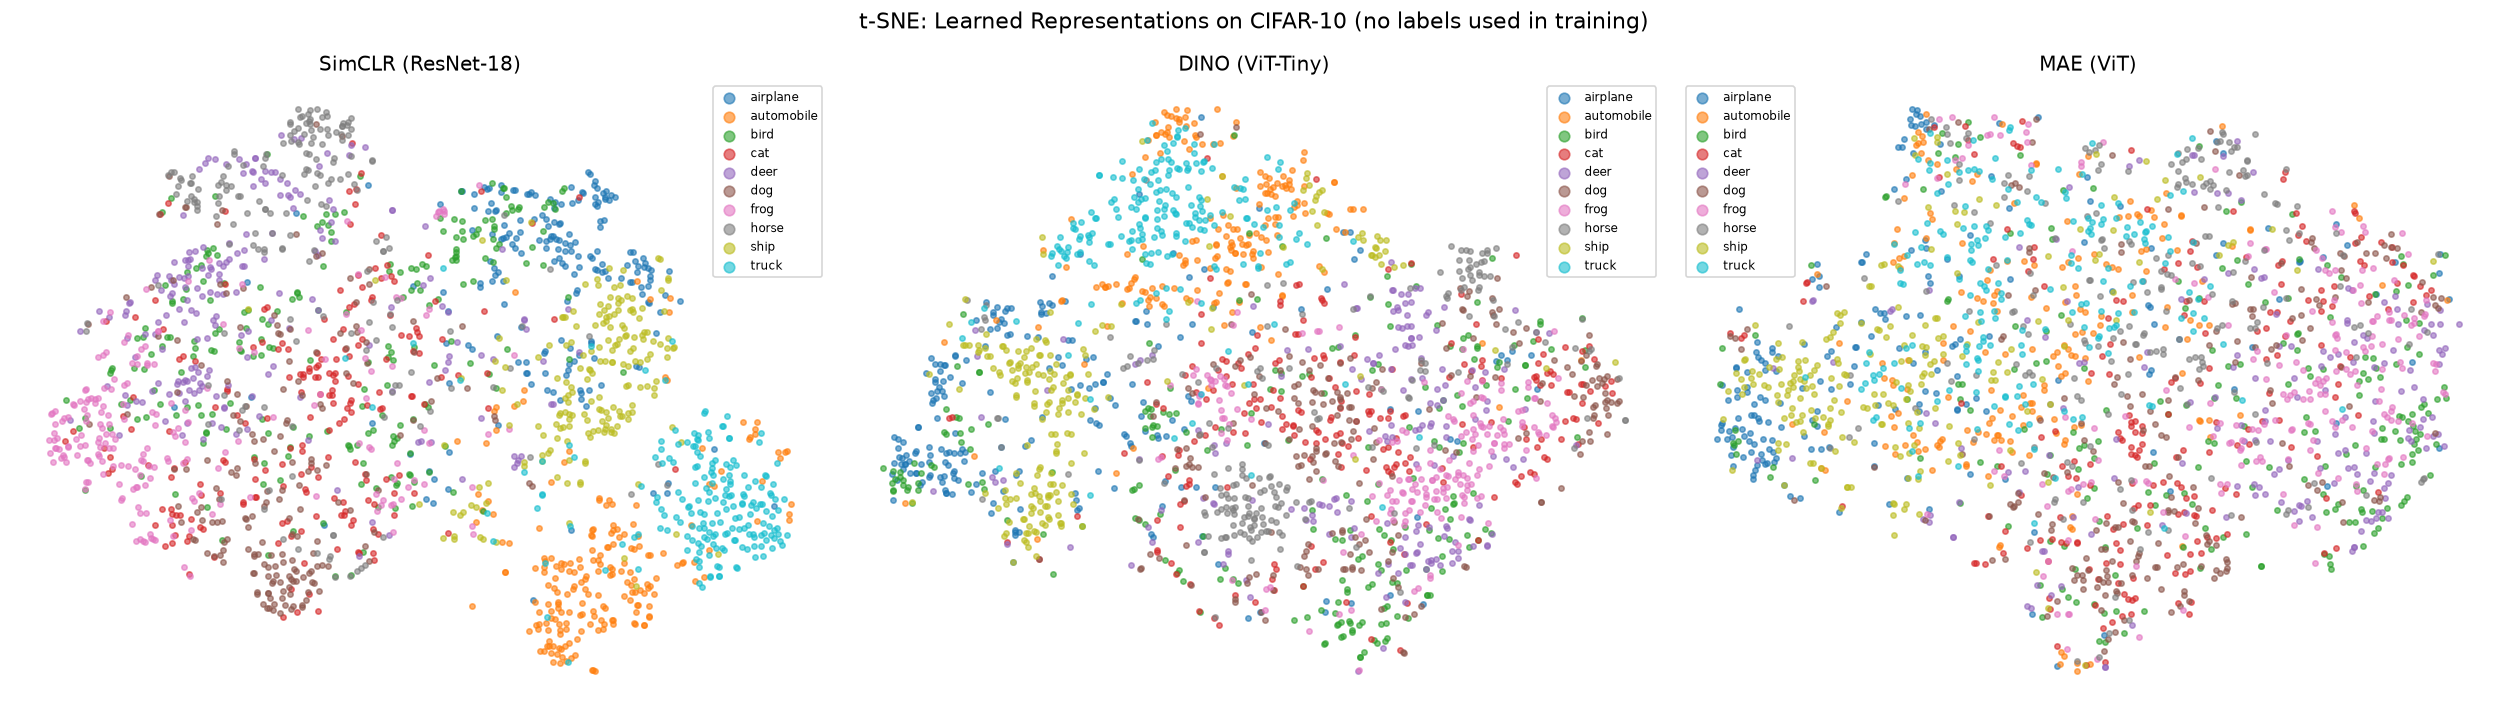
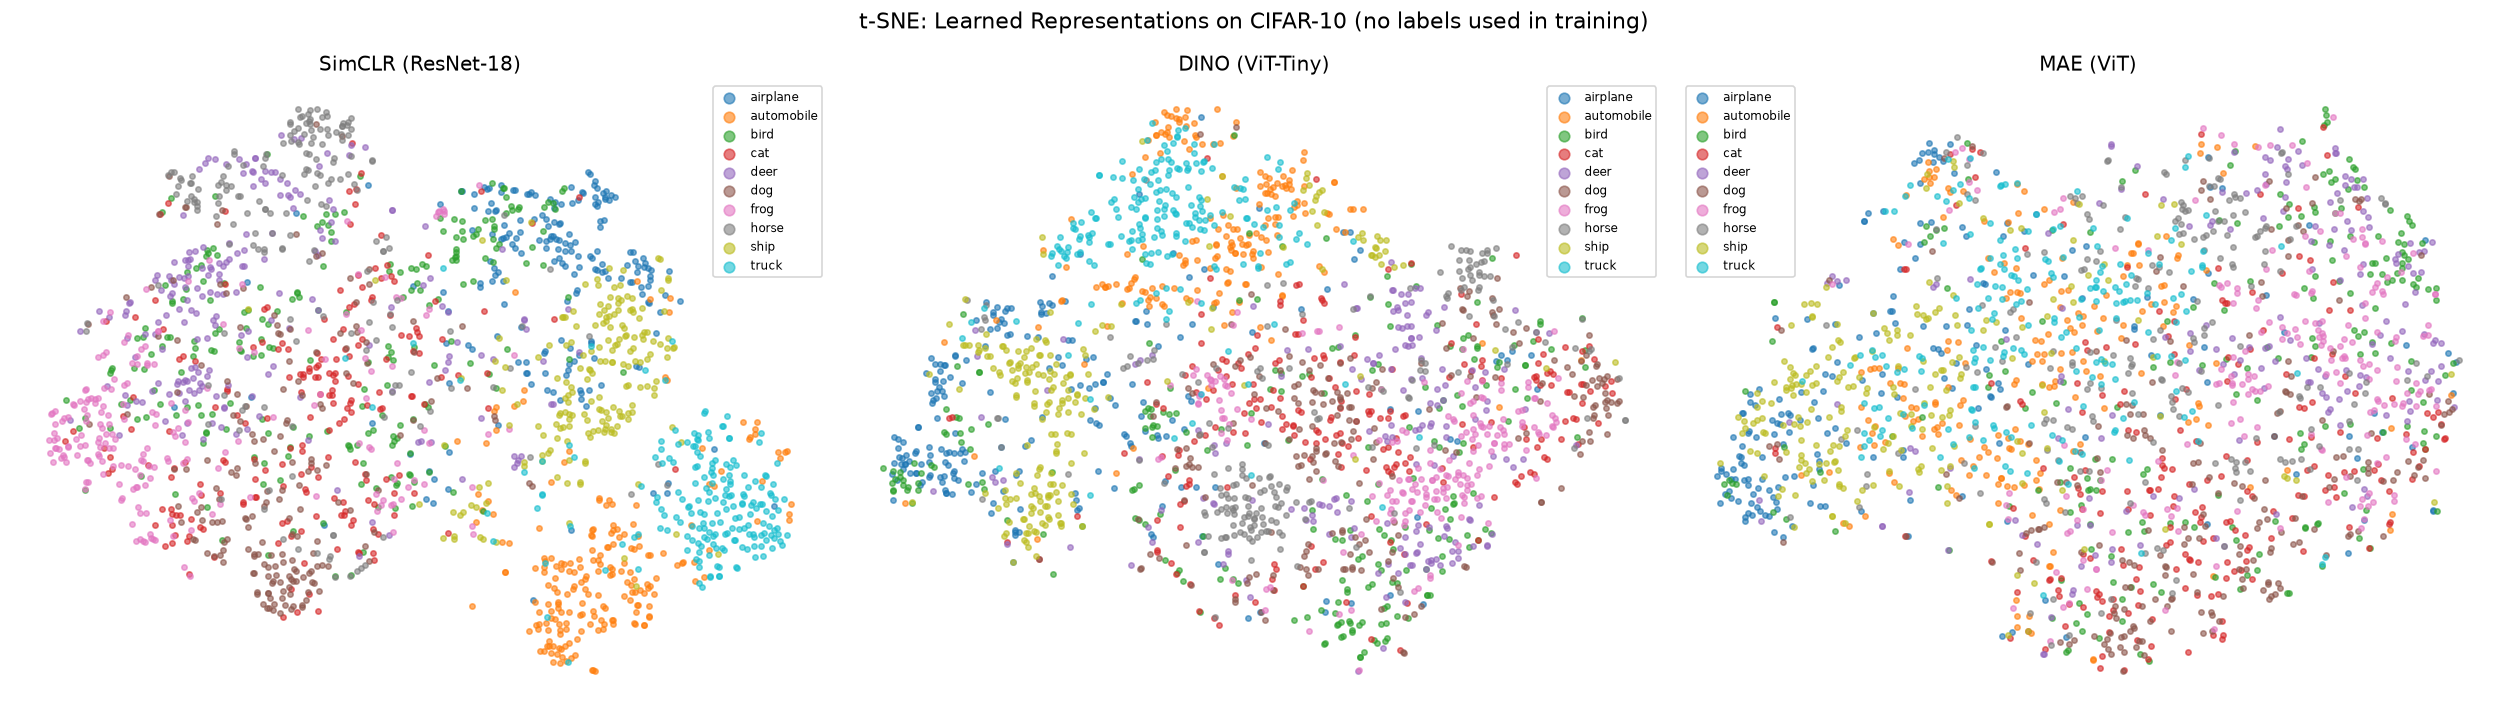
Fix MAE t-SNE normalization in figure generation
_emb() hard-coded mae=False, so MAE test features were extracted with CIFAR
normalization instead of the MAE stats the encoder was trained on. Add a mae flag
and pass mae=True for the MAE embedding; regenerate tsne_comparison.png.

Isolated to src/figures.py — run.py --evaluate (mae=True) and the notebook t-SNE
were already correct; SimCLR/DINO correctly keep CIFAR normalization.

Changed region(s): [[0.6842, 0.1547, 0.9952, 0.9592]]

diff --git a/src/figures.py b/src/figures.py
@@ -13,8 +13,10 @@ from .data import eval_loaders
 
 
 @torch.no_grad()
-def _emb(feature_fn, device, num_workers):
-    _, tel = eval_loaders(num_workers=num_workers, mae=False)
+def _emb(feature_fn, device, num_workers, mae=False):
+    # MAE was trained/normalized with MAE_MEAN/MAE_STD, so its test features must be
+    # extracted under the same normalization (mae=True); SimCLR/DINO use CIFAR stats.
+    _, tel = eval_loaders(num_workers=num_workers, mae=mae)
     feats, labels = [], []
     for imgs, y in tel:
         feats.append(feature_fn(imgs.to(device)).cpu())
@@ -104,7 +106,7 @@ def generate_all_figures(results, device, saved_dir, fig_dir, num_workers=2, n_t
         embeddings["DINO (ViT-Tiny)"] = _emb(pipeline.dino_features(vit), device, num_workers)
     if mae_ckpt.exists():
         mae = pipeline.load_mae_full(str(mae_ckpt), device)
-        embeddings["MAE (ViT)"] = _emb(pipeline.mae_features(mae), device, num_workers)
+        embeddings["MAE (ViT)"] = _emb(pipeline.mae_features(mae), device, num_workers, mae=True)
     if len(embeddings) >= 2:
         visualize.plot_tsne(embeddings, n_points=n_tsne,
                             save_path=fig("tsne_comparison.png"), show=False)